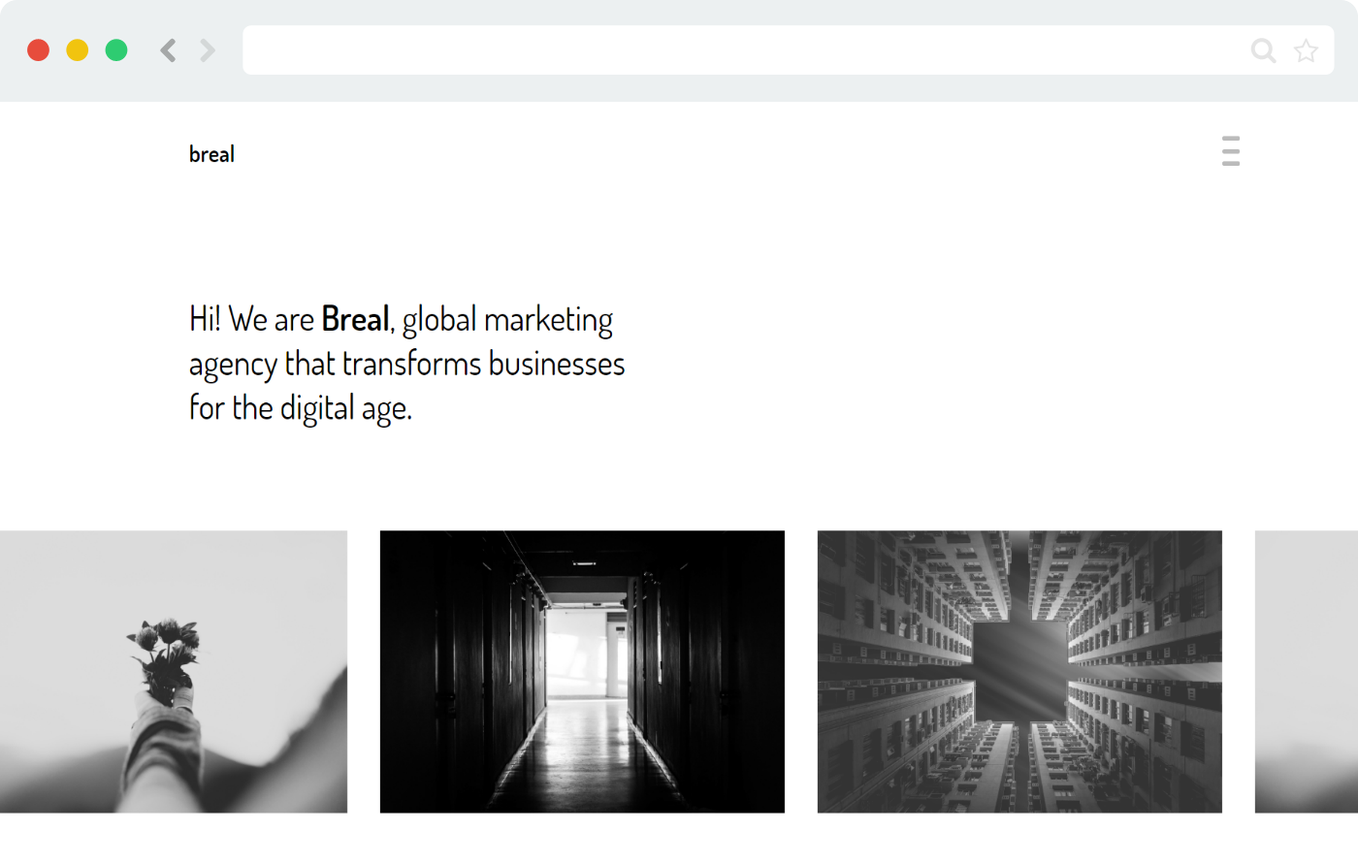
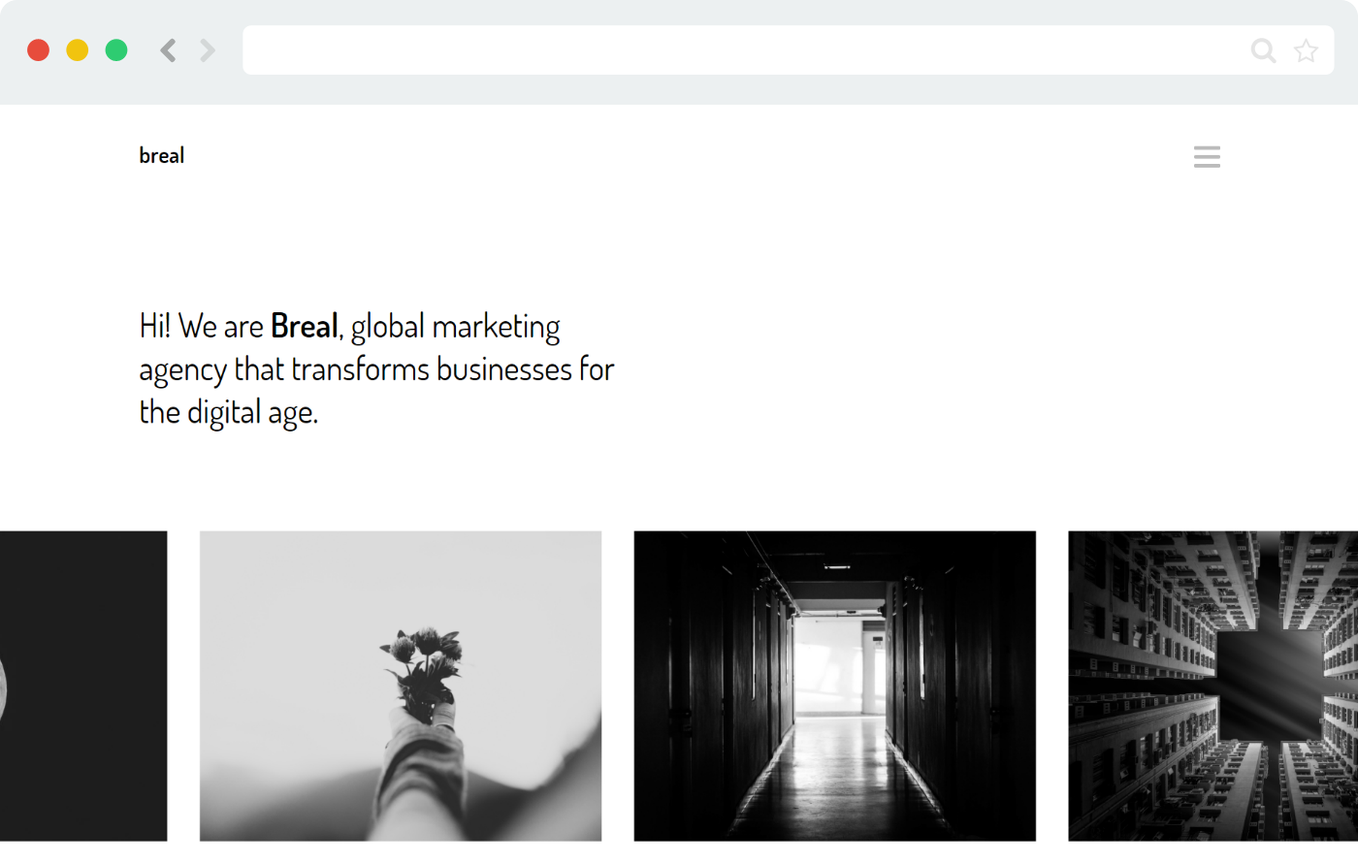
minor aesthetic changes

diff --git a/style.css b/style.css
@@ -5,5 +5,5 @@
 * Version: 1.0
 * Author: HackerYou
 * Author URI: http://hackeryou.com
-*/*,body,figure{margin:0}b,h1,h1.scatter,strong{font-weight:700}article,aside,details,figcaption,figure,footer,h2,header,hgroup,nav,section,summary{display:block}.clear,nav{width:100%}a,mark{color:#000}.sidebar ul li,ol li,ul li{list-style:none}audio,canvas,video{display:inline-block}audio:not([controls]){display:none;height:0}[hidden]{display:none}html{font-family:sans-serif;-webkit-text-size-adjust:100%;-ms-text-size-adjust:100%}a:focus{outline:dotted thin}a:active,a:hover{outline:0}abbr[title]{border-bottom:1px dotted}dfn{font-style:italic}mark{background:#ff0}code,kbd,pre,samp{font-family:monospace,serif;font-size:1em}pre{white-space:pre-wrap;word-wrap:break-word}q{quotes:\201C \201D \2018 \2019}small{font-size:80%}sub,sup{font-size:75%;line-height:0;position:relative;vertical-align:baseline}sup{top:-.5em}sub{bottom:-.25em}img{border:0;max-width:100%}svg:not(:root){overflow:hidden}fieldset{border:1px solid silver;margin:0 2px;padding:.35em .625em .75em}button,input,select,textarea{font-family:inherit;font-size:100%;margin:0}button,input{line-height:normal}button,html input[type=button],input[type=reset],input[type=submit]{-webkit-appearance:button;cursor:pointer}button[disabled],input[disabled]{cursor:default}input[type=checkbox],input[type=radio]{box-sizing:border-box;padding:0}input[type=search]{-webkit-appearance:textfield;box-sizing:content-box}input[type=search]::-webkit-search-cancel-button,input[type=search]::-webkit-search-decoration{-webkit-appearance:none}textarea{overflow:auto;vertical-align:top}table{border-collapse:collapse;border-spacing:0}button::-moz-focus-inner,input::-moz-focus-inner,legend{border:0;padding:0}*{box-sizing:border-box;padding:0}.clearfix:after{content:" ";visibility:hidden;display:block;height:0;clear:both}h2::after,h3::after{content:"";left:0;width:30px;height:1px;z-index:10;position:absolute;background-color:#666}h1,h2,h3{font-family:roboto,sans-serif}h1,h1.scatter{font-size:4.2vw;line-height:1.25}h2,h3{position:relative;font-weight:400}h1.scatter{white-space:nowrap}h2{font-size:1.123rem;padding-bottom:30px;line-height:1.3}h2::after{top:36px;margin:1px 0}h3{font-size:1.169rem;padding-bottom:50px;line-height:1.6}p,p.light{line-height:1.6;font-weight:300}h3::after{top:37px}::-moz-selection{background:rgba(255,255,0,.6)}::selection{background:rgba(255,255,0,.6)}::-moz-selection{background:rgba(255,255,0,.6)}a{text-decoration:none;transition:.2s all ease}p{font-size:.97rem}p.light{font-size:.86rem}pre{background:#F7F7F7;padding:10px;border-radius:4px;border:1px solid #ccc}.aligncenter{text-align:center;margin:0 auto}.alignleft{float:left}.alignright{float:right}img.alignleft{padding-right:5px}img.alignright{padding-left:5px}.clear{float:left;clear:both}header{height:100vh;padding-top:27%}span{display:inline-block;transition:all .5s;transition-timing:cubic-bezier(0,1,0,1)}.nav_container{width:100%;padding:0 5%;z-index:1000;position:fixed;background-color:rgba(250,250,250,.9)}nav{-webkit-justify-content:space-between;-ms-flex-pack:justify;justify-content:space-between;-webkit-align-items:center;-ms-flex-align:center;align-items:center;left:auto;right:auto;transition:.3s all ease}nav ul#menu-main-nav{display:-webkit-flex;display:-ms-flexbox;display:flex;-webkit-align-items:center;-ms-flex-align:center;align-items:center}nav ul#menu-main-nav li{cursor:pointer;margin-left:20px}nav ul#menu-main-nav li:first-child{margin-left:0}nav ul#menu-main-nav li>a{padding:6px 13px;border:1px solid transparent;border-radius:1px;font-size:1rem;transition:.2s ease-in-out}.social>li .fa,nav a p{transition:.2s all ease}nav ul#menu-main-nav li>a:focus,nav ul#menu-main-nav li>a:hover{border-color:#000}nav a p{font-size:1rem}nav a p:focus,nav a p:hover{color:#000;text-decoration:line-through}nav.large{height:100px}nav.small{height:45px}.side_nav{position:fixed;display:none;cursor:pointer;-webkit-transform:rotate(450deg);-ms-transform:rotate(450deg);transform:rotate(450deg);right:-125px;top:50%;z-index:2000}.side_nav li{display:inline-block}.side_nav li a{color:#bbb;margin-right:18px;font-size:.85rem;letter-spacing:1px;text-transform:uppercase}.side_nav li a:focus,.side_nav li a:hover{color:#000;text-decoration:line-through}.sidebar{width:30%;float:left}.sidebar ul{margin:0;padding:0}#comments .navigation{padding:0 0 18px}h3#comments-title,h3#reply-title{color:#000;font-weight:700;font-size:20px;margin-bottom:0}h3#comments-title{padding:24px 0}.commentlist li.comment{border-bottom:1px solid #e7e7e7;line-height:24px;position:relative;clear:both;margin:0 0 24px;padding:0 0 0 56px}.commentlist li:last-child{border-bottom:none;margin-bottom:0}#comments .comment-body ol,#comments .comment-body ul{margin-bottom:18px}#comments .comment-body p:last-child{margin-bottom:6px}#comments .comment-body blockquote p:last-child{margin-bottom:24px}.commentlist ol{list-style:decimal}.commentlist .avatar{position:absolute;top:4px;left:0}.comment-author cite{color:#000;font-style:normal;font-weight:700}.comment-author .says{font-style:italic}.comment-meta{font-size:12px;margin:0 0 5px}.comment-meta a:link,.comment-meta a:visited{color:#888;text-decoration:none}.reply{font-size:12px;padding:0 0 24px}.reply a,a.comment-edit-link{color:#888}.commentlist .children li{border:none;margin:0}#comments .pingback{margin-bottom:18px;padding-bottom:18px;border-bottom:1px solid #e7e7e7}.commentlist li.comment+li.pingback{margin-top:-6px}#comments .pingback p{color:#888;font-size:12px;line-height:18px;display:block;margin:0}#respond dd,#respond dt{display:inline}#comments .pingback .url{font-style:italic;font-size:13px}input[type=submit]{color:#333}#respond{margin-top:24px;border-top:1px solid #e7e7e7;overflow:hidden;position:relative}#respond .comment-notes{margin-bottom:1em}.form-allowed-tags{line-height:1em}.children #respond{margin:0 48px 0 0}h3#reply-title{margin:18px 0}#comments-list #respond{margin:0 0 18px}#cancel-comment-reply-link{font-size:12px;line-height:18px;font-weight:400}#respond .required{color:#ff4b33;font-weight:700}#respond dd,#respond dt,#respond label{color:#888;font-size:12px}#respond input{width:98%;margin:0 0 9px}#respond textarea{width:98%}#respond dd,#respond dt{line-height:18px}#respond dd code{font-size:11px}#respond .form-submit{margin:0 0 24px}#respond .form-submit input{width:auto;font-size:14px}#respond dl{margin:0 0 10px}#respond dt{font-weight:400}.nocomments,p.form-allowed-tags{display:none}.commentlist,.commentlist .children{list-style:none;margin:0}.comment-meta a:active,.comment-meta a:hover,.reply a:hover,a.comment-edit-link:hover{color:#ff4b33}#comments-list ul #respond,#respond p{margin:0}footer{padding:4% 0 5%}footer .footer_container .flex_container{-webkit-justify-content:space-between;-ms-flex-pack:justify;justify-content:space-between;-webkit-flex:1;-ms-flex:1;flex:1}footer .footer_container .flex_container .social,footer .footer_container .flex_container .status_container{width:48.5%;margin-bottom:5%}.footer_container .status_container>p.light{width:30%}.social>li{list-style:none;padding-right:15px;float:left}.social>li .fa{font-size:1rem;color:#bbb}.social>li .fa:focus,.social>li .fa:hover{color:#000}.copyright{width:100%}.copyright p.light{font-size:.75rem}.about_image_container.flex_container{-webkit-justify-content:space-between;-ms-flex-pack:justify;justify-content:space-between;width:100%;height:52vh;-webkit-flex:1;-ms-flex:1;flex:1;overflow:hidden}.about_image1 .overlay,.about_image2 .overlay{height:100%;background-color:rgba(0,0,0,.6);left:0}.about_image1{width:48.5%;transition:.3s all ease}.about_image1 img{position:relative;top:-75px;width:100%}.about_image1 .overlay{position:absolute;top:0}.about_image2{width:48.5%;transition:.3s all ease}.about_image2 img{position:relative;top:-98px;width:100%}.about_image2 .overlay{position:absolute;top:0}.about_text_container{margin:4% 0 5%;-webkit-justify-content:space-between;-ms-flex-pack:justify;justify-content:space-between;-webkit-flex:1;-ms-flex:1;flex:1;width:100%}.about_text_container .about_text{width:48.5%;padding-right:10%}.about_text_container .skills_container{width:48.5%}.tools_container{margin-left:25%}section #work{margin:5% 0 6%}.work_container,.work_text_container{width:100%}.work_container .work_image_container{width:61%;padding:4% 0;margin:0 auto}.work_container .work_image_container img{width:100%;box-shadow:2px 2px 20px 0 rgba(0,0,0,.5);transition:.8s opacity}.work_container .work_image_container img:focus,.work_container .work_image_container img:hover{opacity:.85}.work_container:nth-child(1) .work_inner_container{background-color:rgba(62,88,224,.1)}.work_container:nth-child(2) .work_inner_container{background-color:rgba(158,158,158,.4)}.work_container:nth-child(3) .work_inner_container{background-color:rgba(181,38,56,.1)}.work_text_container{-webkit-flex:1;-ms-flex:1;flex:1;-webkit-justify-content:space-between;-ms-flex-pack:justify;justify-content:space-between;margin:4% 0 6%}.work_text_container .half,.work_text_container .other_half{width:48.5%}.work_text_container .other_half p.skill_title{font-weight:400;padding-top:2.5%}.work_text_container .other_half p.skill_names{display:-webkit-inline-flex;display:-ms-inline-flexbox;display:inline-flex}.work_text_container .other_half .button{display:inline-block;padding:6px 16px;width:auto;border:1px solid #000;border-radius:1px;margin:3% 3% 0 0;transition:.2s ease-in-out}.work_text_container .other_half .button a.button{font-size:.9rem}.work_text_container .other_half .button:focus,.work_text_container .other_half .button:hover{background-color:#000;color:#fff}#contact{padding:6% 0;background-color:rgba(211,211,211,.2)}#contact p.contact_title{font-size:4vw;font-weight:700;line-height:1.25;width:48.5%}.contact_container{width:100%;-webkit-justify-content:space-between;-ms-flex-pack:justify;justify-content:space-between;-webkit-flex:1;-ms-flex:1;flex:1}.contact_container .contact_content{width:48.5%}.contact_container .contact_content .fa{color:#bbb;font-size:1rem;margin-right:10px}.contact_container .contact_content p.contact_icon{font-weight:300;font-size:.9rem;margin-bottom:3.5%;transition:.2s all ease}.contact_container .contact_content p.contact_icon:focus,.contact_container .contact_content p.contact_icon:hover{color:#000;text-decoration:line-through}@media all and (max-width:1000px){header{padding-top:23%}header h1,header h1.scatter{font-size:4vw}div.contact_container{width:100%;-webkit-justify-content:space-between;-ms-flex-pack:justify;justify-content:space-between}}@media all and (max-width:980px){.about_image1 img,.about_image2 img{position:static;object-fit:cover;height:100%}header{padding-top:30%}header h1,header h1.scatter{padding-right:20%;font-size:5.5vw}}@media all and (max-width:768px){header{padding-top:45%}header h1,header h1.scatter{font-size:5.2vw}}@media all and (max-width:700px){#contact p.contact_title,header h1,header h1.scatter{font-size:6vw}div.wrapper{width:87%;margin-left:3%}header{padding-top:50%}.side_nav{display:block}.nav_container{display:none}section#contact{padding:7% 0}div.contact_container{-webkit-flex-direction:column;-ms-flex-direction:column;flex-direction:column}div.contact_container div.contact_content{padding-top:5%;width:100%;display:-webkit-inline-flex;display:-ms-inline-flexbox;display:inline-flex}div.contact_container div.contact_content .contact_icon{padding-right:5%}.work_text_container .half .work_skills_container p.skill_names,.work_text_container .other_half .work_skills_container p.skill_names,div.about_text_container div.skills_container .skills p,div.about_text_container div.skills_container div.tools_container p{font-size:.9rem}div.about_text_container{-webkit-flex-direction:column;-ms-flex-direction:column;flex-direction:column;margin:6% 0 7%}div.about_text_container div.about_text,div.about_text_container div.skills_container{width:100%;padding:0}div.about_text_container div.skills_container{width:100%;-webkit-justify-content:space-between;-ms-flex-pack:justify;justify-content:space-between;-webkit-flex:1;-ms-flex:1;flex:1;padding-top:4%}div.about_text_container div.skills_container .skills,div.about_text_container div.skills_container div.tools_container{width:48.5%;margin-left:0}.work_text_container{-webkit-flex-direction:column;-ms-flex-direction:column;flex-direction:column;-webkit-justify-content:space-between;-ms-flex-pack:justify;justify-content:space-between;margin:8% 0 10%}.work_text_container .half,.work_text_container .other_half{width:100%}.work_text_container .half .work_skills_container .skill_title,.work_text_container .other_half .work_skills_container .skill_title{padding-top:5%}.work_text_container .half a.button,.work_text_container .other_half a.button{margin-top:4%;padding:8px 20px}.work_container .work_image_container{width:78%}footer{padding:7% 0}footer div.flex_container div.status_container>p.light{width:65%}}@media all and (max-width:560px){header{padding-top:60%}header h1,header h1.scatter{font-size:6vw}.about_image_container.flex_container{height:auto}.about_image_container.flex_container .about_image1,.about_image_container.flex_container .about_image2{height:75%}.about_image_container.flex_container .about_image1 img,.about_image_container.flex_container .about_image2 img{position:static;object-fit:contain}div.about_text_container{-webkit-flex-direction:column;-ms-flex-direction:column;flex-direction:column;margin:9% 0 11%}.work_container .work_image_container{width:90%}.work_text_container{margin:9% 0 11%}div.about_text_container div.skills_container{padding-top:10%}#contact{padding:10% 0}.contact_content{-webkit-flex-direction:column;-ms-flex-direction:column;flex-direction:column}}.wrapper,body{margin:0 auto}@media all and (max-width:460px){header{padding-top:50%}.side_nav{right:-138px}}@media only screen and (min-device-width:320px) and (max-device-width:568px){header{padding-top:85%}#contact p.contact_title,h1,h1.scatter{font-size:10vw}.work_container .work_image_container{width:98%;padding:2% 1%}.copyright{padding-top:7%}}@media only screen and (min-device-width:360px) and (max-device-width:640px){header{padding-top:45%}#contact p.contact_title{font-size:2.2rem}}@media only screen and (min-device-width:768px) and (max-device-width:1024px){header{padding-top:70%}.about_image1,.about_image2,div.about_image_container.flex_container{height:auto}.about_image1 img,.about_image2 img{object-fit:contain;height:auto}}@media only screen and (min-device-width:375px) and (max-device-width:667px){header{padding-top:85%}#contact p.contact_title{font-size:10vw}}@media only screen and (min-device-width:414px) and (max-device-width:736px){header{padding-top:90%}}body{max-width:1280px;width:100%;font-size:15px;background-color:#FAFAFA;font-family:roboto,helvetica,sans-serif}.wrapper{max-width:1150px;width:90%}.flex_container{display:-webkit-flex;display:-ms-flexbox;display:flex}section p.error{padding-top:10%;font-size:3.6rem;font-weight:700;color:#000;line-height:1.25}.searchbox{margin:1% 0}.searchbox input[type=search]{padding:6px 16px;display:-webkit-inline-flex;display:-ms-inline-flexbox;display:inline-flex;border:1px solid #000;border-radius:1px;background-color:transparent;margin-top:3%;transition:.2s ease-in-out}.searchbox input[type=search] a{font-size:.9rem}.searchbox input[type=search]:focus,.searchbox input[type=search]:hover{background-color:#000;color:#fff;border-color:#000}.searchbox input[type=submit]{padding:6px 16px;width:auto;border:1px solid #000;border-radius:1px;transition:.2s ease-in-out;font-size:.9rem;background-color:transparent;color:#000}.searchbox input[type=submit]:focus,.searchbox input[type=submit]:hover{background-color:#000;color:#fff;border-color:#000}
+*/*,body,figure{margin:0}b,h1,h1.scatter,strong{font-weight:700}article,aside,details,figcaption,figure,footer,h2,header,hgroup,nav,section,summary{display:block}.clear,nav{width:100%}a,mark{color:#000}.sidebar ul li,ol li,ul li{list-style:none}audio,canvas,video{display:inline-block}audio:not([controls]){display:none;height:0}[hidden]{display:none}html{font-family:sans-serif;-webkit-text-size-adjust:100%;-ms-text-size-adjust:100%}a:focus{outline:dotted thin}a:active,a:hover{outline:0}abbr[title]{border-bottom:1px dotted}dfn{font-style:italic}mark{background:#ff0}code,kbd,pre,samp{font-family:monospace,serif;font-size:1em}pre{white-space:pre-wrap;word-wrap:break-word}q{quotes:\201C \201D \2018 \2019}small{font-size:80%}sub,sup{font-size:75%;line-height:0;position:relative;vertical-align:baseline}sup{top:-.5em}sub{bottom:-.25em}img{border:0;max-width:100%}svg:not(:root){overflow:hidden}fieldset{border:1px solid silver;margin:0 2px;padding:.35em .625em .75em}button,input,select,textarea{font-family:inherit;font-size:100%;margin:0}button,input{line-height:normal}button,html input[type=button],input[type=reset],input[type=submit]{-webkit-appearance:button;cursor:pointer}button[disabled],input[disabled]{cursor:default}input[type=checkbox],input[type=radio]{box-sizing:border-box;padding:0}input[type=search]{-webkit-appearance:textfield;box-sizing:content-box}input[type=search]::-webkit-search-cancel-button,input[type=search]::-webkit-search-decoration{-webkit-appearance:none}textarea{overflow:auto;vertical-align:top}table{border-collapse:collapse;border-spacing:0}button::-moz-focus-inner,input::-moz-focus-inner,legend{border:0;padding:0}*{box-sizing:border-box;padding:0}.clearfix:after{content:" ";visibility:hidden;display:block;height:0;clear:both}h2::after,h3::after{content:"";left:0;width:30px;height:1px;z-index:10;position:absolute;background-color:#666}h1,h2,h3{font-family:roboto,sans-serif}h1,h1.scatter{font-size:4.2vw;line-height:1.25}h2,h3{position:relative;font-weight:400}h1.scatter{white-space:nowrap}h2{font-size:1.123rem;padding-bottom:30px;line-height:1.3}h2::after{top:36px;margin:1px 0}h3{font-size:1.169rem;padding-bottom:50px;line-height:1.6}p,p.light{line-height:1.6;font-weight:300}h3::after{top:37px}::-moz-selection{background:rgba(255,255,0,.6)}::selection{background:rgba(255,255,0,.6)}::-moz-selection{background:rgba(255,255,0,.6)}a{text-decoration:none;transition:.2s all ease}p{font-size:.97rem}p.light{font-size:.86rem}pre{background:#F7F7F7;padding:10px;border-radius:4px;border:1px solid #ccc}.aligncenter{text-align:center;margin:0 auto}.alignleft{float:left}.alignright{float:right}img.alignleft{padding-right:5px}img.alignright{padding-left:5px}.clear{float:left;clear:both}header{height:100vh;padding-top:27%}span{display:inline-block;transition:all .5s;transition-timing:cubic-bezier(0,1,0,1)}.nav_container{width:100%;padding:0 5%;z-index:1000;position:fixed;background-color:rgba(250,250,250,.9)}nav{-webkit-justify-content:space-between;-ms-flex-pack:justify;justify-content:space-between;-webkit-align-items:center;-ms-flex-align:center;align-items:center;left:auto;right:auto;transition:.3s all ease}nav ul#menu-main-nav{display:-webkit-flex;display:-ms-flexbox;display:flex;-webkit-align-items:center;-ms-flex-align:center;align-items:center}nav ul#menu-main-nav li{cursor:pointer;margin-left:20px}nav ul#menu-main-nav li:first-child{margin-left:0}nav ul#menu-main-nav li>a{padding:6px 13px;border:1px solid transparent;border-radius:1px;font-size:1rem;transition:.2s ease-in-out}.social>li .fa,nav a p{transition:.2s all ease}nav ul#menu-main-nav li>a:focus,nav ul#menu-main-nav li>a:hover{border-color:#000}nav a p{font-size:1rem}nav a p:focus,nav a p:hover{color:#000;text-decoration:line-through}nav.large{height:100px}nav.small{height:45px}.side_nav{position:fixed;display:none;cursor:pointer;-webkit-transform:rotate(450deg);-ms-transform:rotate(450deg);transform:rotate(450deg);right:-125px;top:50%;z-index:2000}.side_nav li{display:inline-block}.side_nav li a{color:#bbb;margin-right:18px;font-size:.85rem;letter-spacing:1px;text-transform:uppercase}.side_nav li a:focus,.side_nav li a:hover{color:#000;text-decoration:line-through}.sidebar{width:30%;float:left}.sidebar ul{margin:0;padding:0}#comments .navigation{padding:0 0 18px}h3#comments-title,h3#reply-title{color:#000;font-weight:700;font-size:20px;margin-bottom:0}h3#comments-title{padding:24px 0}.commentlist li.comment{border-bottom:1px solid #e7e7e7;line-height:24px;position:relative;clear:both;margin:0 0 24px;padding:0 0 0 56px}.commentlist li:last-child{border-bottom:none;margin-bottom:0}#comments .comment-body ol,#comments .comment-body ul{margin-bottom:18px}#comments .comment-body p:last-child{margin-bottom:6px}#comments .comment-body blockquote p:last-child{margin-bottom:24px}.commentlist ol{list-style:decimal}.commentlist .avatar{position:absolute;top:4px;left:0}.comment-author cite{color:#000;font-style:normal;font-weight:700}.comment-author .says{font-style:italic}.comment-meta{font-size:12px;margin:0 0 5px}.comment-meta a:link,.comment-meta a:visited{color:#888;text-decoration:none}.reply{font-size:12px;padding:0 0 24px}.reply a,a.comment-edit-link{color:#888}.commentlist .children li{border:none;margin:0}#comments .pingback{margin-bottom:18px;padding-bottom:18px;border-bottom:1px solid #e7e7e7}.commentlist li.comment+li.pingback{margin-top:-6px}#comments .pingback p{color:#888;font-size:12px;line-height:18px;display:block;margin:0}#respond dd,#respond dt{display:inline}#comments .pingback .url{font-style:italic;font-size:13px}input[type=submit]{color:#333}#respond{margin-top:24px;border-top:1px solid #e7e7e7;overflow:hidden;position:relative}#respond .comment-notes{margin-bottom:1em}.form-allowed-tags{line-height:1em}.children #respond{margin:0 48px 0 0}h3#reply-title{margin:18px 0}#comments-list #respond{margin:0 0 18px}#cancel-comment-reply-link{font-size:12px;line-height:18px;font-weight:400}#respond .required{color:#ff4b33;font-weight:700}#respond dd,#respond dt,#respond label{color:#888;font-size:12px}#respond input{width:98%;margin:0 0 9px}#respond textarea{width:98%}#respond dd,#respond dt{line-height:18px}#respond dd code{font-size:11px}#respond .form-submit{margin:0 0 24px}#respond .form-submit input{width:auto;font-size:14px}#respond dl{margin:0 0 10px}#respond dt{font-weight:400}.nocomments,p.form-allowed-tags{display:none}.commentlist,.commentlist .children{list-style:none;margin:0}.comment-meta a:active,.comment-meta a:hover,.reply a:hover,a.comment-edit-link:hover{color:#ff4b33}#comments-list ul #respond,#respond p{margin:0}footer{padding:4% 0 5%}footer .footer_container .flex_container{-webkit-justify-content:space-between;-ms-flex-pack:justify;justify-content:space-between;-webkit-flex:1;-ms-flex:1;flex:1}footer .footer_container .flex_container .social,footer .footer_container .flex_container .status_container{width:48.5%;margin-bottom:5%}.footer_container .status_container>p.light{width:30%}.social>li{list-style:none;padding-right:15px;float:left}.social>li .fa{font-size:1rem;color:#bbb}.social>li .fa:focus,.social>li .fa:hover{color:#000}.copyright{width:100%}.copyright p.light{font-size:.75rem}.about_image_container.flex_container{-webkit-justify-content:space-between;-ms-flex-pack:justify;justify-content:space-between;width:100%;height:52vh;-webkit-flex:1;-ms-flex:1;flex:1;overflow:hidden}.about_image1 .overlay,.about_image2 .overlay{height:100%;background-color:rgba(0,0,0,.6);left:0}.about_image1{width:48.5%;transition:.3s all ease}.about_image1 img{position:relative;top:-75px;width:100%}.about_image1 .overlay{position:absolute;top:0}.about_image2{width:48.5%;transition:.3s all ease}.about_image2 img{position:relative;top:-98px;width:100%}.about_image2 .overlay{position:absolute;top:0}.about_text_container{margin:4% 0 5%;-webkit-justify-content:space-between;-ms-flex-pack:justify;justify-content:space-between;-webkit-flex:1;-ms-flex:1;flex:1;width:100%}.about_text_container .about_text{width:48.5%;padding-right:10%}.about_text_container .skills_container{width:48.5%}.tools_container{margin-left:25%}section #work{margin:5% 0 6%}.work_container,.work_text_container{width:100%}.work_container .work_image_container{width:61%;padding:4% 0;margin:0 auto}.work_container .work_image_container img{width:100%;box-shadow:2px 2px 20px 0 rgba(0,0,0,.5);transition:.8s opacity}.work_container .work_image_container img:focus,.work_container .work_image_container img:hover{opacity:.85}.work_container:nth-child(1) .work_inner_container{background-color:rgba(181,38,56,.1)}.work_container:nth-child(2) .work_inner_container{background-color:rgba(158,158,158,.4)}.work_container:nth-child(3) .work_inner_container{background-color:rgba(62,88,224,.1)}.work_text_container{-webkit-flex:1;-ms-flex:1;flex:1;-webkit-justify-content:space-between;-ms-flex-pack:justify;justify-content:space-between;margin:4% 0 6%}.work_text_container .half,.work_text_container .other_half{width:48.5%}.work_text_container .other_half p.skill_title{font-weight:400;padding-top:2.5%}.work_text_container .other_half p.skill_names{display:-webkit-inline-flex;display:-ms-inline-flexbox;display:inline-flex}.work_text_container .other_half .button{display:inline-block;padding:6px 16px;width:auto;border:1px solid #000;border-radius:1px;margin:3% 3% 0 0;transition:.2s ease-in-out}.work_text_container .other_half .button a.button{font-size:.9rem}.work_text_container .other_half .button:focus,.work_text_container .other_half .button:hover{background-color:#000;color:#fff}#contact{padding:6% 0;background-color:rgba(211,211,211,.2)}#contact p.contact_title{font-size:4vw;font-weight:700;line-height:1.25;width:48.5%}.contact_container{width:100%;-webkit-justify-content:space-between;-ms-flex-pack:justify;justify-content:space-between;-webkit-flex:1;-ms-flex:1;flex:1}.contact_container .contact_content{width:48.5%}.contact_container .contact_content .fa{color:#bbb;font-size:1rem;margin-right:10px}.contact_container .contact_content p.contact_icon{font-weight:300;font-size:.9rem;margin-bottom:3.5%;transition:.2s all ease}.contact_container .contact_content p.contact_icon:focus,.contact_container .contact_content p.contact_icon:hover{color:#000;text-decoration:line-through}@media all and (max-width:1000px){header{padding-top:23%}header h1,header h1.scatter{font-size:4vw}div.contact_container{width:100%;-webkit-justify-content:space-between;-ms-flex-pack:justify;justify-content:space-between}}@media all and (max-width:980px){.about_image1 img,.about_image2 img{position:static;object-fit:cover;height:100%}header{padding-top:30%}header h1,header h1.scatter{padding-right:20%;font-size:5.5vw}}@media all and (max-width:768px){header{padding-top:45%}header h1,header h1.scatter{font-size:5.2vw}}@media all and (max-width:700px){#contact p.contact_title,header h1,header h1.scatter{font-size:6vw}div.wrapper{width:87%;margin-left:3%}header{padding-top:50%}.side_nav{display:block}.nav_container{display:none}section#contact{padding:7% 0}div.contact_container{-webkit-flex-direction:column;-ms-flex-direction:column;flex-direction:column}div.contact_container div.contact_content{padding-top:5%;width:100%;display:-webkit-inline-flex;display:-ms-inline-flexbox;display:inline-flex}div.contact_container div.contact_content .contact_icon{padding-right:5%}.work_text_container .half .work_skills_container p.skill_names,.work_text_container .other_half .work_skills_container p.skill_names,div.about_text_container div.skills_container .skills p,div.about_text_container div.skills_container div.tools_container p{font-size:.9rem}div.about_text_container{-webkit-flex-direction:column;-ms-flex-direction:column;flex-direction:column;margin:6% 0 7%}div.about_text_container div.about_text,div.about_text_container div.skills_container{width:100%;padding:0}div.about_text_container div.skills_container{width:100%;-webkit-justify-content:space-between;-ms-flex-pack:justify;justify-content:space-between;-webkit-flex:1;-ms-flex:1;flex:1;padding-top:4%}div.about_text_container div.skills_container .skills,div.about_text_container div.skills_container div.tools_container{width:48.5%;margin-left:0}.work_text_container{-webkit-flex-direction:column;-ms-flex-direction:column;flex-direction:column;-webkit-justify-content:space-between;-ms-flex-pack:justify;justify-content:space-between;margin:8% 0 10%}.work_text_container .half,.work_text_container .other_half{width:100%}.work_text_container .half .work_skills_container .skill_title,.work_text_container .other_half .work_skills_container .skill_title{padding-top:5%}.work_text_container .half a.button,.work_text_container .other_half a.button{margin-top:4%;padding:8px 20px}.work_container .work_image_container{width:78%}footer{padding:7% 0}footer div.flex_container div.status_container>p.light{width:65%}}@media all and (max-width:560px){header{padding-top:60%}header h1,header h1.scatter{font-size:6vw}.about_image_container.flex_container{height:auto}.about_image_container.flex_container .about_image1,.about_image_container.flex_container .about_image2{height:75%}.about_image_container.flex_container .about_image1 img,.about_image_container.flex_container .about_image2 img{position:static;object-fit:contain}div.about_text_container{-webkit-flex-direction:column;-ms-flex-direction:column;flex-direction:column;margin:9% 0 11%}.work_container .work_image_container{width:90%}.work_text_container{margin:9% 0 11%}div.about_text_container div.skills_container{padding-top:10%}#contact{padding:10% 0}.contact_content{-webkit-flex-direction:column;-ms-flex-direction:column;flex-direction:column}}.wrapper,body{margin:0 auto}@media all and (max-width:460px){header{padding-top:50%}.side_nav{right:-138px}}@media only screen and (min-device-width:320px) and (max-device-width:568px){header{padding-top:85%}#contact p.contact_title,h1,h1.scatter{font-size:10vw}.work_container .work_image_container{width:98%;padding:2% 1%}.copyright{padding-top:7%}}@media only screen and (min-device-width:360px) and (max-device-width:640px){header{padding-top:45%}#contact p.contact_title{font-size:2.2rem}}@media only screen and (min-device-width:768px) and (max-device-width:1024px){header{padding-top:70%}.about_image1,.about_image2,div.about_image_container.flex_container{height:auto}.about_image1 img,.about_image2 img{object-fit:contain;height:auto}}@media only screen and (min-device-width:375px) and (max-device-width:667px){header{padding-top:85%}#contact p.contact_title{font-size:10vw}}@media only screen and (min-device-width:414px) and (max-device-width:736px){header{padding-top:90%}}body{max-width:1280px;width:100%;font-size:15px;background-color:#FAFAFA;font-family:roboto,helvetica,sans-serif}.wrapper{max-width:1150px;width:90%}.flex_container{display:-webkit-flex;display:-ms-flexbox;display:flex}section p.error{padding-top:10%;font-size:3.6rem;font-weight:700;color:#000;line-height:1.25}.searchbox{margin:1% 0}.searchbox input[type=search]{padding:6px 16px;display:-webkit-inline-flex;display:-ms-inline-flexbox;display:inline-flex;border:1px solid #000;border-radius:1px;background-color:transparent;margin-top:3%;transition:.2s ease-in-out}.searchbox input[type=search] a{font-size:.9rem}.searchbox input[type=search]:focus,.searchbox input[type=search]:hover{background-color:#000;color:#fff;border-color:#000}.searchbox input[type=submit]{padding:6px 16px;width:auto;border:1px solid #000;border-radius:1px;transition:.2s ease-in-out;font-size:.9rem;background-color:transparent;color:#000}.searchbox input[type=submit]:focus,.searchbox input[type=submit]:hover{background-color:#000;color:#fff;border-color:#000}
 /*# sourceMappingURL=style.css.map */

diff --git a/sass/_work.scss b/sass/_work.scss
@@ -23,13 +23,13 @@ section #work{
 		}
 }
 .work_container:nth-child(1) .work_inner_container{
-	background-color: rgba(62,88,224,0.1);
+	background-color: rgba(181,38,56,0.0.7);
 }
 .work_container:nth-child(2) .work_inner_container{
 	background-color: rgba(158,158,158,0.4);
 }
 .work_container:nth-child(3) .work_inner_container{
-	background-color: rgba(181,38,56,0.1);
+	background-color: rgba(62,88,224,0.1);
 }
 
 .work_text_container{

diff --git a/single.php b/single.php
@@ -1,7 +1,6 @@
 <?php get_header(); ?>
 
-<div class="main">
-  <div class="container">
+<main class="main">
     <div class="content">
       <?php if ( have_posts() ) while ( have_posts() ) : the_post(); ?>
 
@@ -36,10 +35,6 @@
       <?php endwhile; // end of the loop. ?>
 
     </div> <!-- /.content -->
-
-    <?php get_sidebar(); ?>
-
-  </div> <!-- /.container -->
 </div> <!-- /.main -->
 
 <?php get_footer(); ?>
